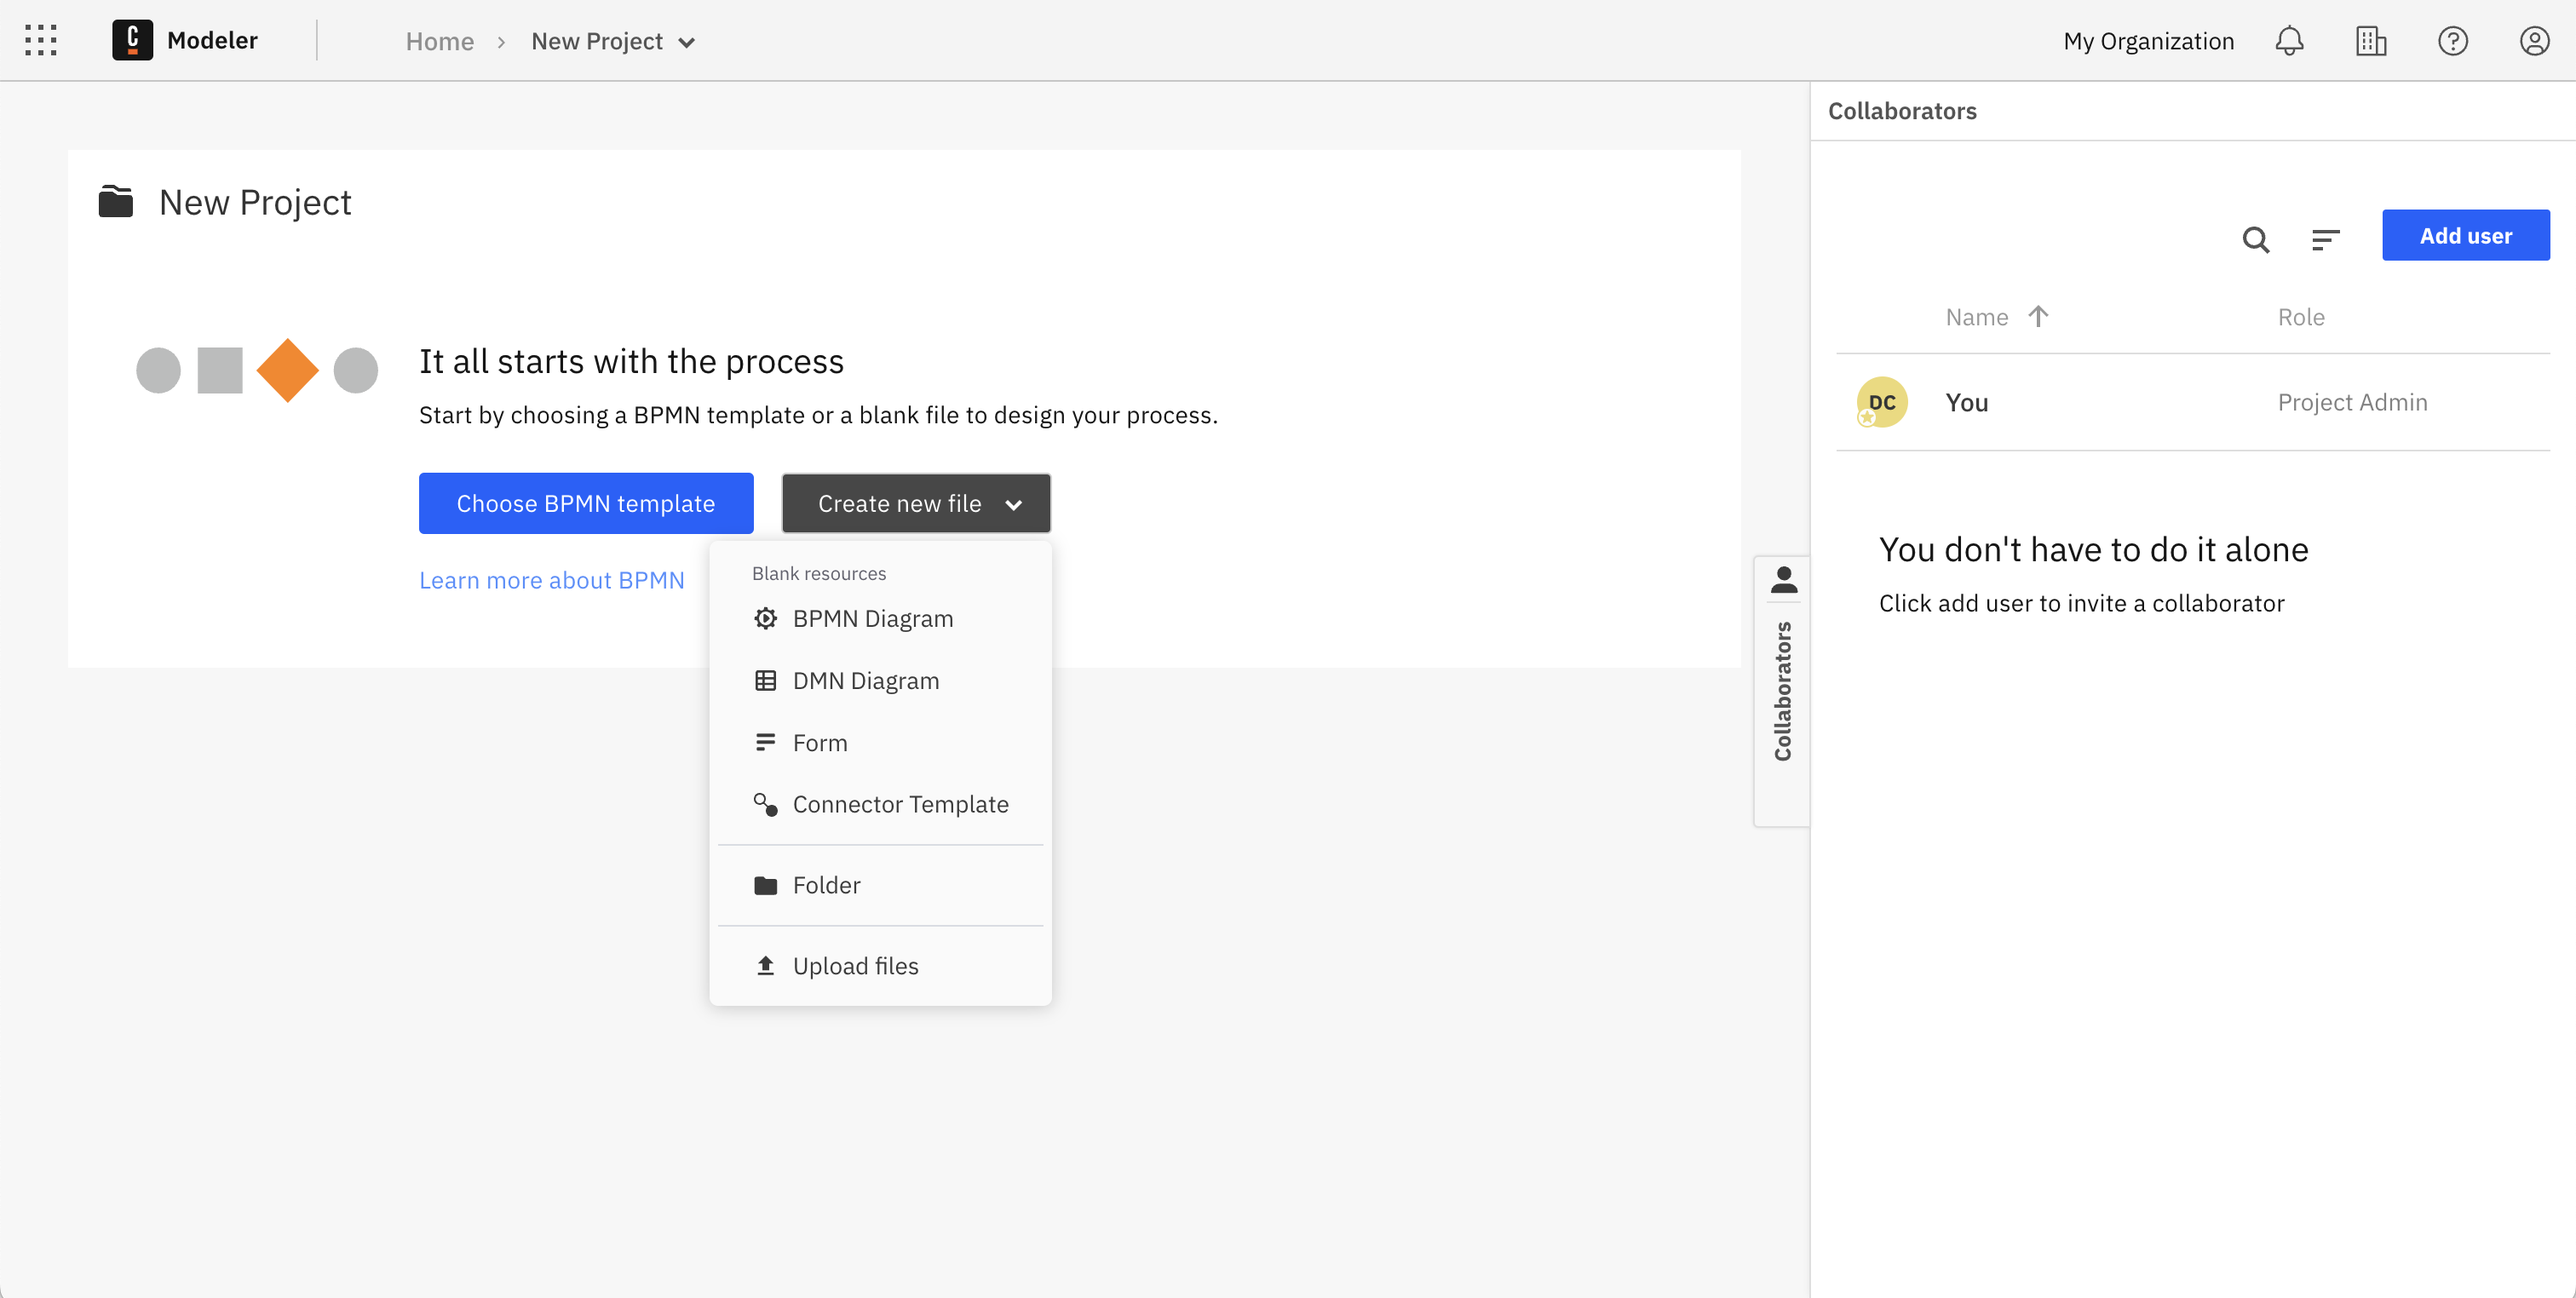
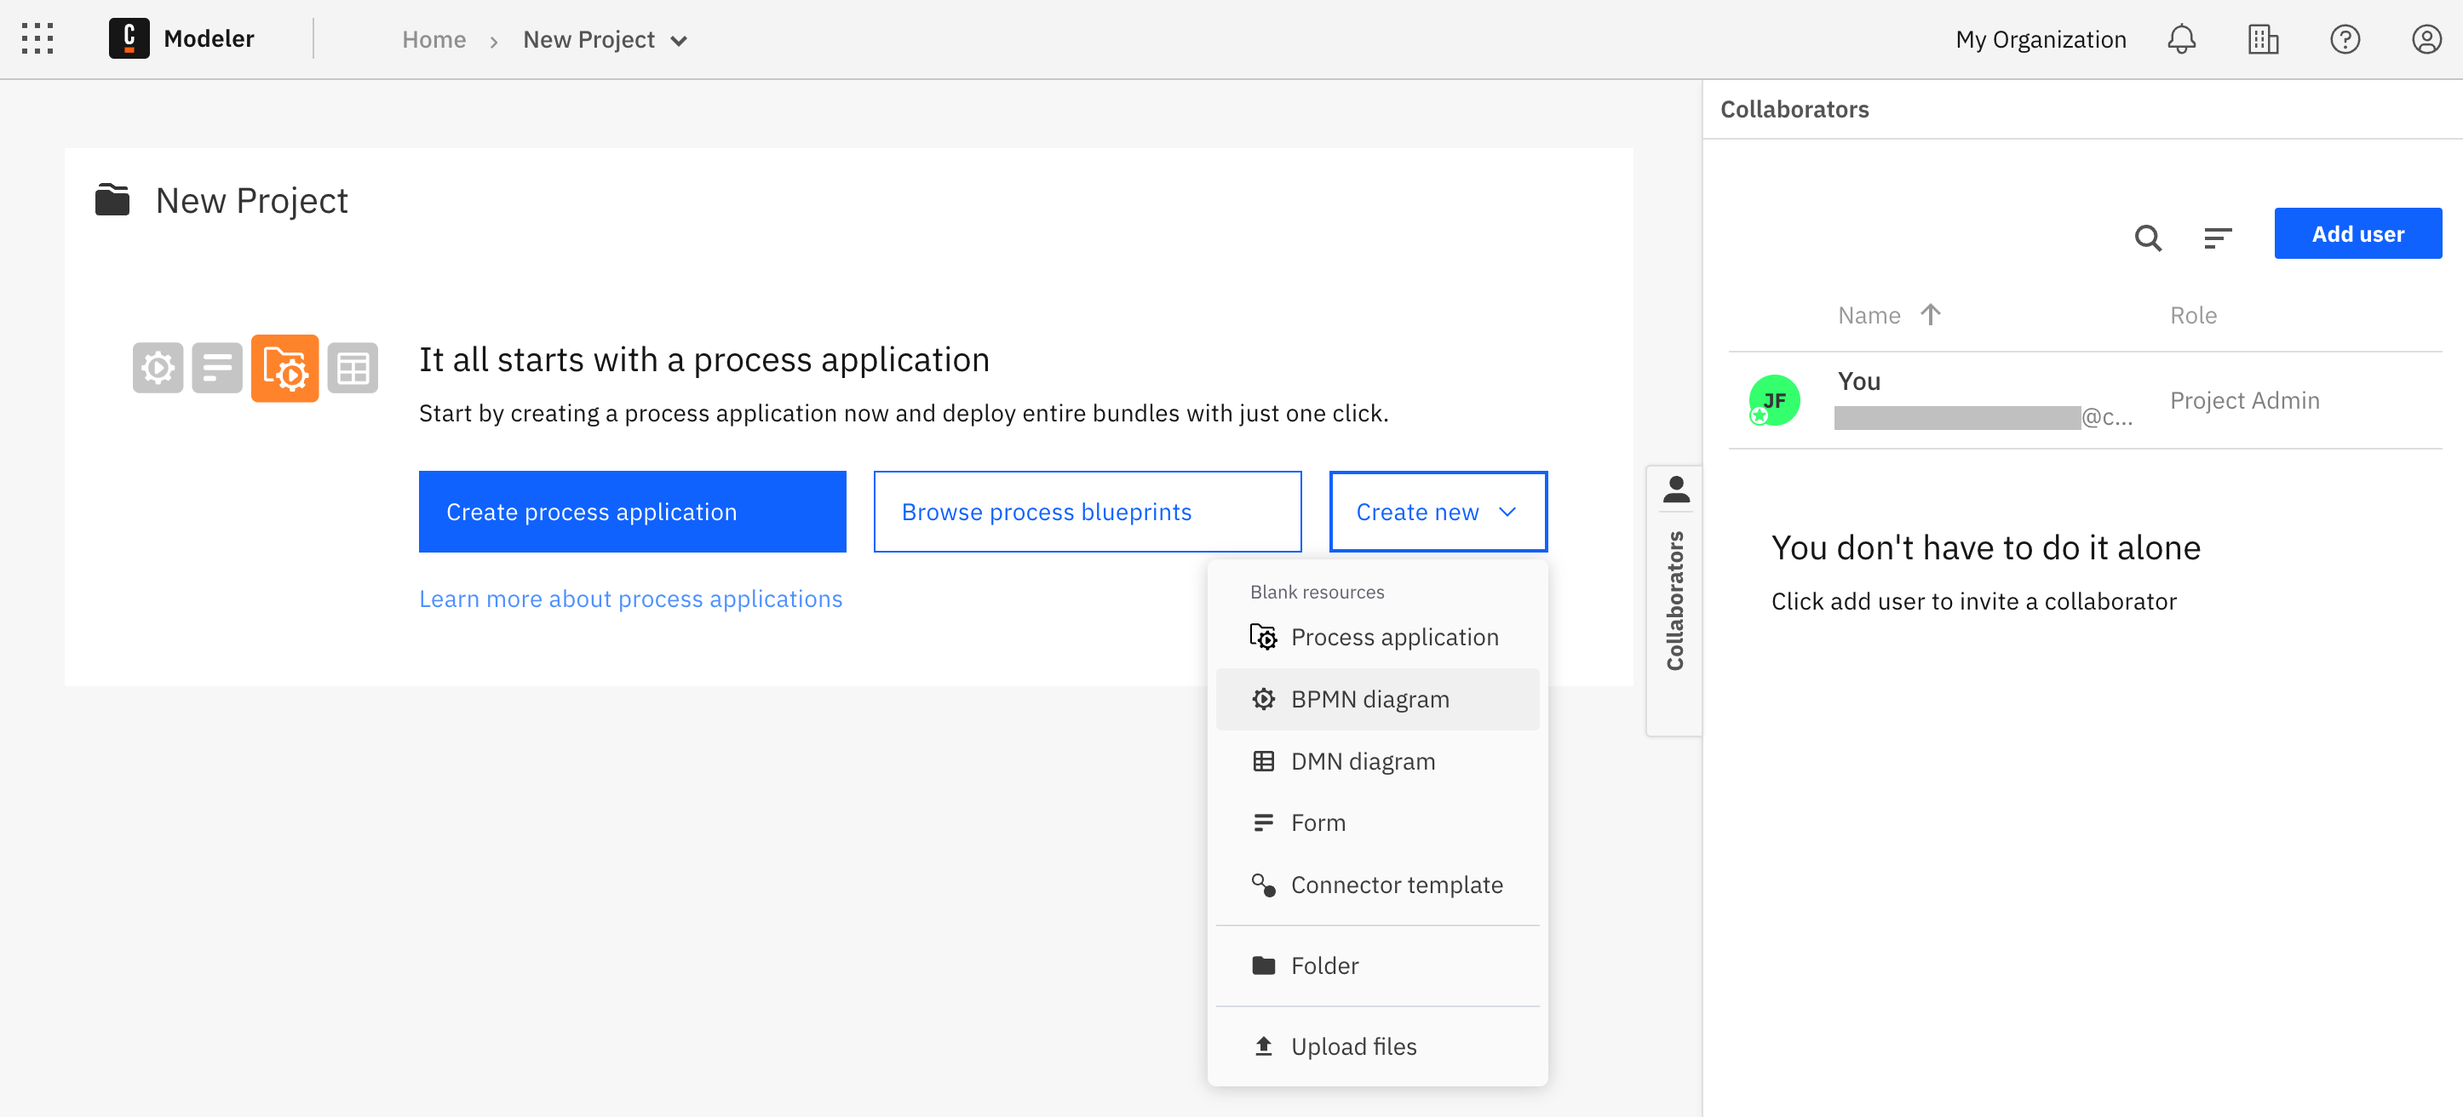
docs(web-modeler): add documentation on process applications

diff --git a/optimize_sidebars.js b/optimize_sidebars.js
@@ -234,10 +234,13 @@ module.exports = {
               "components/modeler/web-modeler/run-or-publish-your-process/"
             ),
             docsLink(
+              "Process applications",
+              "components/modeler/web-modeler/process-applications/"
+            ),
+            docsLink(
               "Visit the Camunda Marketplace",
               "components/modeler/web-modeler/camunda-marketplace/"
             ),
-
             {
               Collaboration: [
                 docsLink(

diff --git a/sidebars.js b/sidebars.js
@@ -147,6 +147,7 @@ module.exports = {
             "components/modeler/web-modeler/import-diagram",
             "components/modeler/web-modeler/fix-problems-in-your-diagram",
             "components/modeler/web-modeler/run-or-publish-your-process",
+            "components/modeler/web-modeler/process-applications",
             "components/modeler/web-modeler/camunda-marketplace",
             {
               Collaboration: [

diff --git a/docs/components/modeler/web-modeler/process-applications.md b/docs/components/modeler/web-modeler/process-applications.md
@@ -1,0 +1,126 @@
+---
+id: process-applications
+title: Process applications
+description: Process applications allow you to deploy multiple related files together in a single bundle.
+---
+
+import EmptyProjectImg from './img/process-applications/empty-project.png'
+import CreateProcessApplicationImg from './img/process-applications/create-process-application.png'
+import FileListImg from './img/process-applications/file-list.png'
+import DeployProcessApplicationImg from './img/process-applications/deploy-process-application.png'
+import RunProcessApplicationImg from './img/process-applications/run-process-application.png'
+import DeployErrorImg from './img/process-applications/deploy-error.png'
+
+<span class="badge badge--cloud">Camunda 8 SaaS only</span>
+
+## Idea and purpose
+
+A process application is a special type of folder in Web Modeler that allows you to work on a set of related files and
+[deploy](#deploy-and-run-a-process-application) them together in a single bundle with just one click.
+This reduces the risk of having a broken deployment at runtime and makes it more convenient to deploy related files.
+
+We advise using a process application if there is one main BPMN process that represents your end-to-end use case and
+additional files the main process depends on – like called supporting processes, DMN decisions, or forms.
+
+## Create a process application
+
+Create a new process application by clicking the **Create process application** button in an empty project or via
+**Create new** > **Process application** on the project or folder page.
+
+<p><img src={EmptyProjectImg} alt="Create a process application from an empty project" /></p>
+
+You will be asked to provide a name for the new process application.
+
+<p><img src={CreateProcessApplicationImg} style={{width: 500}} alt="Create a new process application" /></p>
+
+### Main process
+
+The new process application will contain an empty BPMN diagram with the same name as the process application itself,
+labelled as the main process.
+You can rename the main process diagram any time if you wish.
+
+:::note
+A process application must always have a main process.
+That is why the main process diagram cannot be deleted or moved out of the process application.
+:::
+
+### Add files to a process application
+
+Add more files to the process application via the **Create new** dropdown on the process application page.
+You can also drag and drop files from your local computer there or move existing files from a different location in
+Web Modeler to the process application.
+
+To make it easily discoverable, the main process will always be displayed at the top of the file list, also when you change its sort order.
+
+<p><img src={FileListImg} alt="Process application file list" /></p>
+
+:::note
+Within the same process application, process IDs, decision IDs and form IDs must be unique across all files.
+This is to avoid ambiguity and conflicts when you link resources and deploy the process application later on.
+:::
+
+## Deploy and run a process application
+
+### Deploy a process application
+
+Use the **Deploy** button on the process application page to deploy the process application to a Zeebe cluster.
+
+<p><img src={DeployProcessApplicationImg} alt="Deploy a process application" /></p>
+
+All resources contained in the process application (i.e. the main process plus all other BPMN diagrams, DMN diagrams and
+forms) will be deployed together in a single bundle.
+If any of the resources is invalid and cannot be deployed, the whole deployment will [fail](#deployment-errors) and the
+cluster state will remain unchanged.
+This ensures that a process application cannot be deployed incompletely or in an inconsistent state, which makes it safer to use.
+
+### Run a process application
+
+Use the **Run** button on the process application page to start a new instance of the process application's [main process](#main-process).
+Before the actual process instance is started, all resources will be (re-)deployed if required so that the new instance
+will always use their latest state.
+
+<p><img src={RunProcessApplicationImg} alt="Run a process application" /></p>
+
+After the process instance has been started, you will receive a notification with a link to the process instance view in
+[Operate](../../operate/operate-introduction.md).
+Follow this link to observe the progress of the process instance and interact with it if required.
+
+:::info
+If you click the **Deploy** or **Run** button on the modeling screen for a BPMN or DMN diagram that is part of a process
+application, you will be deploying all resources of the process application and not just the current diagram.
+:::
+
+### Deployment errors
+
+If the deployment of a process application fails (for example, because one or more of the contained resources have invalid
+implementation properties), a modal containing the error message thrown by the Zeebe engine will be displayed.
+The message usually comprises the name of the affected resource, the ID of the invalid diagram element, and the actual error.
+
+<p><img src={DeployErrorImg} style={{width: 680}} alt="Process application deployment error" /></p>
+
+### Deployment of external resources
+
+You can link BPMN processes, DMN decisions, or forms that are not part of the process application itself (= external
+resources) from any process inside a process application.
+
+Note that when you deploy the process application:
+
+- linked external forms will be deployed together with the process application.
+- linked external BPMN and DMN diagrams need to be deployed separately.
+
+## Limitations and availability
+
+Process applications are currently a SaaS-only feature and not yet available in Web Modeler Self-Managed.
+
+Also be aware of the following limitations when working with process applications:
+
+- You cannot create subfolders inside a process application.
+- Process applications can only be deployed to a Zeebe cluster in version 8.4.0 or higher.
+- It is not possible to deploy individual files that are part of a process application; the application will always be deployed as a whole.
+- The overall size of the deployment bundle is limited due to a maximum [record](../../zeebe/technical-concepts/internal-processing.md) size of 4 MB in Zeebe.
+  Effectively, the limit is between 2 and 3 MB as Zeebe writes more data to the log stream than just the raw deployment.
+  - If you exceed the limit, you will see the following [error message](#deployment-errors):  
+    `Command 'CREATE' rejected with code 'EXCEEDED_BATCH_RECORD_SIZE'`
+- If the main process has a start event with a linked form, the form is currently not previewed in the **Start instance** modal.
+  You can still start the process instance with the form's input via a [public form](run-or-publish-your-process.md#publish-via-a-public-form)
+  (SaaS only) or directly in [Tasklist](run-or-publish-your-process.md#publish-to-tasklist).

diff --git a/docs/components/modeler/web-modeler/run-or-publish-your-process.md b/docs/components/modeler/web-modeler/run-or-publish-your-process.md
@@ -41,6 +41,9 @@ To deploy, click **Deploy** in the upper right corner of the modeling screen:
 
 - Make sure your process is free of errors, otherwise it can't be deployed. Use the [problems panel to detect and fix errors](./fix-problems-in-your-diagram.md).
 - Make sure all dependent files are deployed first, such as DMN diagrams, forms, or called processes. You can use the [link tool](./advanced-modeling/call-activity-linking.md) to drill-down into linked resources and deploy them.
+  :::tip
+  Consider using a [process application](process-applications.md) that allows you to deploy a process and all dependent files together in a single bundle.
+  :::
 - Implement and run your [job workers](../../concepts/job-workers.md) if you use tasks such as service or send tasks.
 
 :::note
@@ -126,22 +129,14 @@ Publishing a process means that you make it available to other users inside and 
 
 You have the following options to publish a process:
 
-- [Deploy a process](#deploy-a-process)
-  - [Before deploying a process](#before-deploying-a-process)
-- [Run a process](#run-a-process)
-  - [Test run using Play mode](#test-run-using-play-mode)
-  - [Run manually from Modeler](#run-manually-from-modeler)
-  - [Schedule via timer](#schedule-via-timer)
-  - [Best practices for running a process](#best-practices-for-running-a-process)
-- [Publishing a process](#publishing-a-process)
-  - [Deploy to run programmatically](#deploy-to-run-programmatically)
-  - [Publish via webhook](#publish-via-webhook)
-  - [Publish to Tasklist](#publish-to-tasklist)
-  - [Publish via a public form](#publish-via-a-public-form)
-    - [Deploy process to the public](#deploy-process-to-the-public)
-    - [Get the public link and share it](#get-the-public-link-and-share-it)
-  - [Listen to message or signal events](#listen-to-message-or-signal-events)
-  - [Best practices for publishing a process](#best-practices-for-publishing-a-process)
+- [Deploy to run programmatically](#deploy-to-run-programmatically)
+- [Publish via webhook](#publish-via-webhook)
+- [Publish to Tasklist](#publish-to-tasklist)
+- [Publish via a public form](#publish-via-a-public-form)
+  - [Deploy process to the public](#deploy-process-to-the-public)
+  - [Get the public link and share it](#get-the-public-link-and-share-it)
+- [Listen to message or signal events](#listen-to-message-or-signal-events)
+- [Best practices for publishing a process](#best-practices-for-publishing-a-process)
 
 ### Deploy to run programmatically
 

diff --git a/docs/components/modeler/web-modeler/camunda-marketplace.md b/docs/components/modeler/web-modeler/camunda-marketplace.md
@@ -55,10 +55,10 @@ This means a developer created a template and reused one of the Camunda Connecto
 
 1. Log in to your Camunda account and navigate to Web Modeler by clicking the Camunda components icon in the top left corner of your console, and then select Modeler.
 2. Select an existing project or create a new one within the projects tab.
-3. If you initiate a project with a pre-defined process blueprint, navigate to the Marketplace modal by clicking on **Browse process blueprint**. If you wish to incorporate it into an existing project, open the **Create new** dropdown and select **Browse process blueprints**.
-   ![Browse-process-blueprints-ctas](./img/Browse-process-blueprints-ctas.png)
+3. If you initiate a project with a pre-defined process blueprint, navigate to the Marketplace modal by clicking on **Browse process blueprints**. If you wish to incorporate it into an existing project, open the **Create new** dropdown and select **Browse process blueprints**.
+   ![Browse-process-blueprints-ctas](./img/browse-process-blueprints-ctas.png)
 4. Within the modal, you'll discover a variety of applications submitted by Camunda, partners, or community members to the **Camunda Marketplace**. Utilize the sidebar to filter applications by use case, or leverage the sub-navigation to search and filter by industry, creator, or supported Camunda version.
-   ![Marketplace-modal-blueprints](./img/Marketplace-modal-blueprints.png)
+   ![Marketplace-modal-blueprints](./img/marketplace-modal-blueprints.png)
 5. Once you've found the desired process blueprint, click **Use blueprint** to open it in Web Modeler and start your work. The process blueprint will be automatically saved within the project you initiated.
 6. If you can't find the right process blueprint, you can suggest ideas in our [Idea Portal](https://marketplace.camunda.com/en-US/pages/connectorsIdeaPortal) or contribute your own process to the [Camunda Marketplace](https://marketplace.camunda.com/en-US/pages/submissionMenu).
 

diff --git a/docs/components/modeler/web-modeler/advanced-modeling/business-rule-task-linking.md b/docs/components/modeler/web-modeler/advanced-modeling/business-rule-task-linking.md
@@ -28,4 +28,7 @@ You may also enter the Decision ID directly in the **Called decision** section i
 
 :::info
 Deploying a diagram does not automatically deploy linked diagrams. Ensure you deploy linked diagrams separately.
+
+You might also consider using a [process application](../process-applications.md) that allows you to deploy all related
+diagrams together in a single bundle.
 :::

diff --git a/docs/components/modeler/web-modeler/advanced-modeling/call-activity-linking.md b/docs/components/modeler/web-modeler/advanced-modeling/call-activity-linking.md
@@ -26,4 +26,7 @@ You may also enter the process ID directly in the **Called element** section in 
 
 :::info
 Deploying a diagram does not automatically deploy linked diagrams. Ensure you deploy linked diagrams separately.
+
+You might also consider using a [process application](../process-applications.md) that allows you to deploy all related
+diagrams together in a single bundle.
 :::
